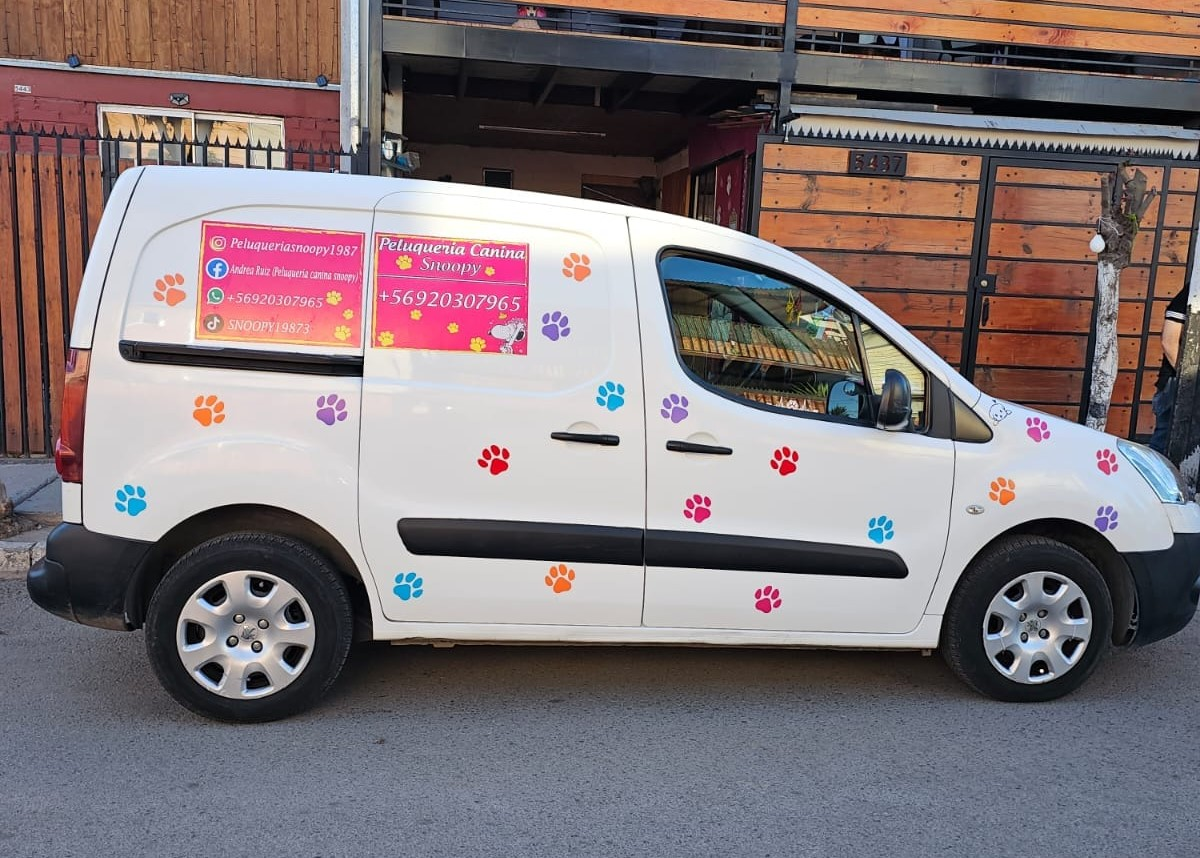
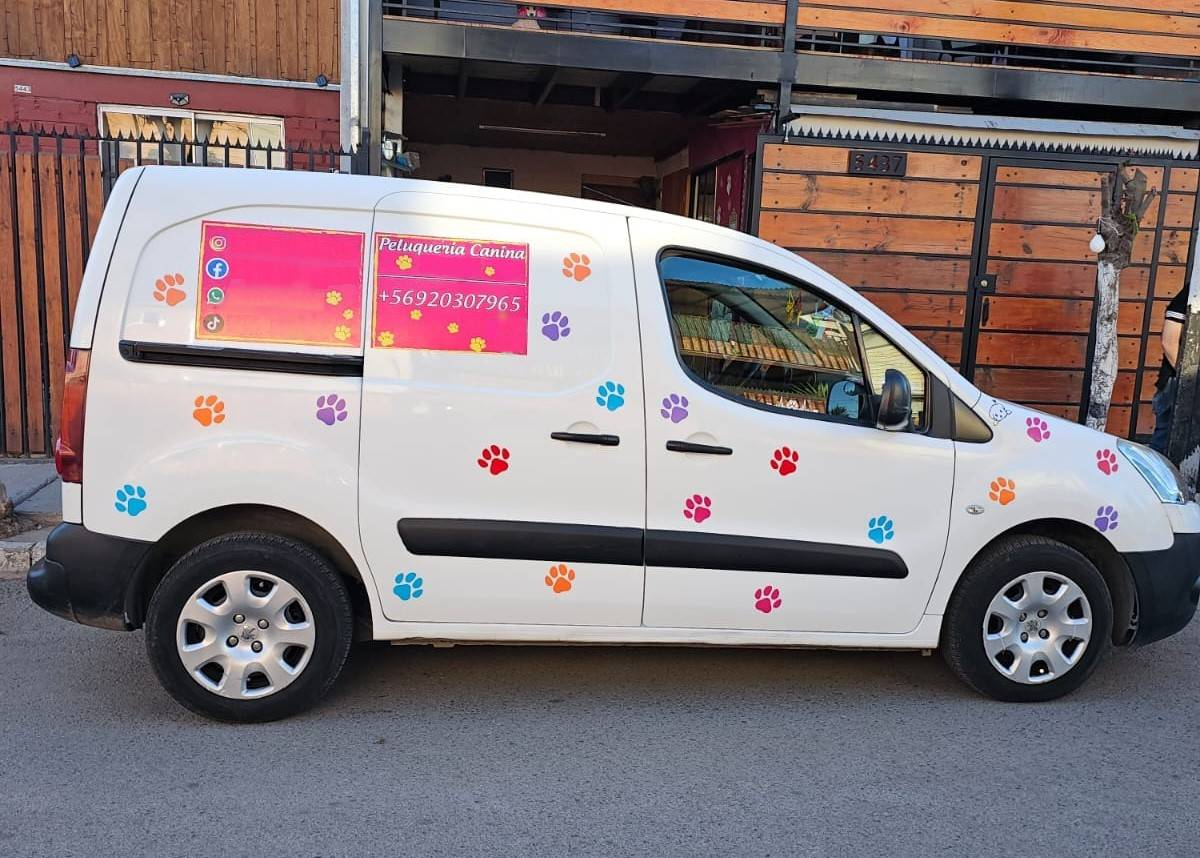
Fix de pequeños errores

Changed region(s): [[0.185, 0.2727, 0.3083, 0.3939], [0.4008, 0.3636, 0.4625, 0.4242], [0.3392, 0.303, 0.4008, 0.3333]]

diff --git a/public/js/general-user.js b/public/js/general-user.js
@@ -9,7 +9,7 @@ document.addEventListener('DOMContentLoaded', () => {
       const direccion = localStorage.getItem('address');
      
       const whatsappMessage = `Hola, soy ${nombre} ${apellido}, vivo en ${direccion}. Y me gustaría agendar una hora con ustedes para mi pelud@! Muchas gracias`;
-      const whatsappLink = `https://api.whatsapp.com/send?autoload=1&app_absent=0&text=${encodeURIComponent(whatsappMessage)}&phone=573173461294`;
+      const whatsappLink = `https://api.whatsapp.com/send?autoload=1&app_absent=0&text=${encodeURIComponent(whatsappMessage)}&phone=56920307965`;
       
 
       authButtons.innerHTML = role == 'role-admin' ?  `

diff --git a/public/js/validaciones.js b/public/js/validaciones.js
@@ -5,7 +5,7 @@ function obtenerDatos() {
     console.log("Obteniendo datos...");
 }
 
-//AL INICIAR GATILLARA Esto
+//AL INICIAR GATILLARÁ ESTO
 $(function () {
     obtenerDatos()
 });
